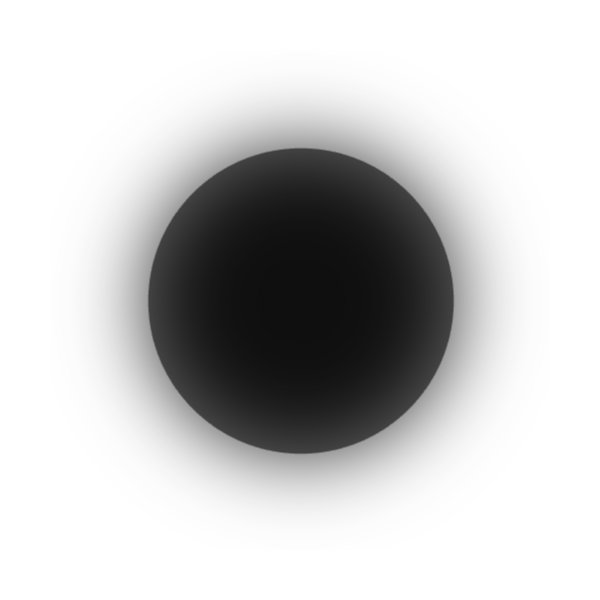
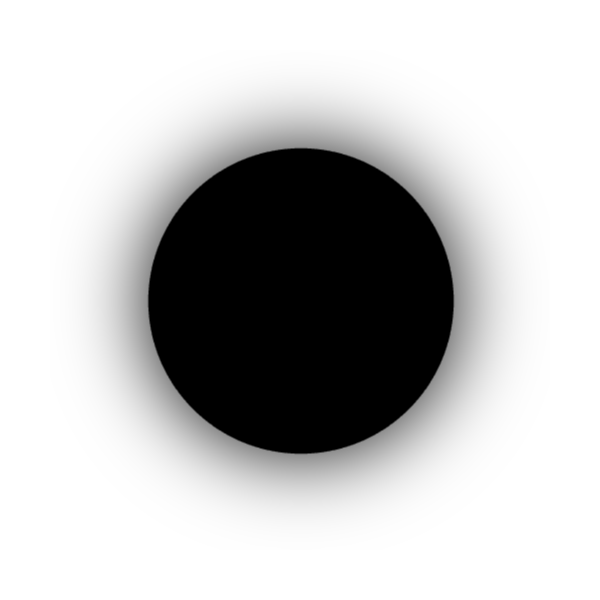
improved dot animation.

Changed region(s): [[0.24, 0.24, 0.78, 0.78]]

diff --git a/css/style.css b/css/style.css
@@ -10,6 +10,7 @@
     #cdcce0 - gray
     #76aa8c - green - callout
 
+    #a32825 - red
     #dddde4 - light gray
     #bdbfcb - gray
     #acd5d8 - cyan
@@ -50,7 +51,7 @@
     display: inline-block;
     background: #6da87c;
     height: 200px;
-    width: 205px;
+    width: 255px;
 }
 .hero-animated-dots-mask {
     -webkit-mask-repeat: repeat-x;
@@ -59,12 +60,14 @@
     -webkit-mask-position: 0px 67px;
 }
 .hero-animated-dots-spin {
-    width: 500px;
-    height: 500px;
+    width: 600px;
+    height: 200px;
     background: -webkit-linear-gradient(
         left,
         rgba(255,255,255,0)   0%,
+        rgba(255,255,255,0)  30%,
         rgba(255,255,255,1)  50%,
+        rgba(255,255,255,0)  70%,
         rgba(255,255,255,0) 100%
     );
     background-size: 60px 100px;
@@ -110,11 +113,11 @@
 #hero-circle-left {
     background: #5b58b6;
 }
-#hero-circle-right {
-    background: #5b58b6;
-}
 #hero-circle-center {
-    background: #5b58b6;
+    background: #f2cda1;
+}
+#hero-circle-right {
+    background: #a32825;
 }
 
 /* -=-=-=-=-=-=-=-=-=-=-=-=-=-=-=-=-=-=-=-=-=-=-=-=-=-=-=-=-=-=-=-=-=-=-=-= */
